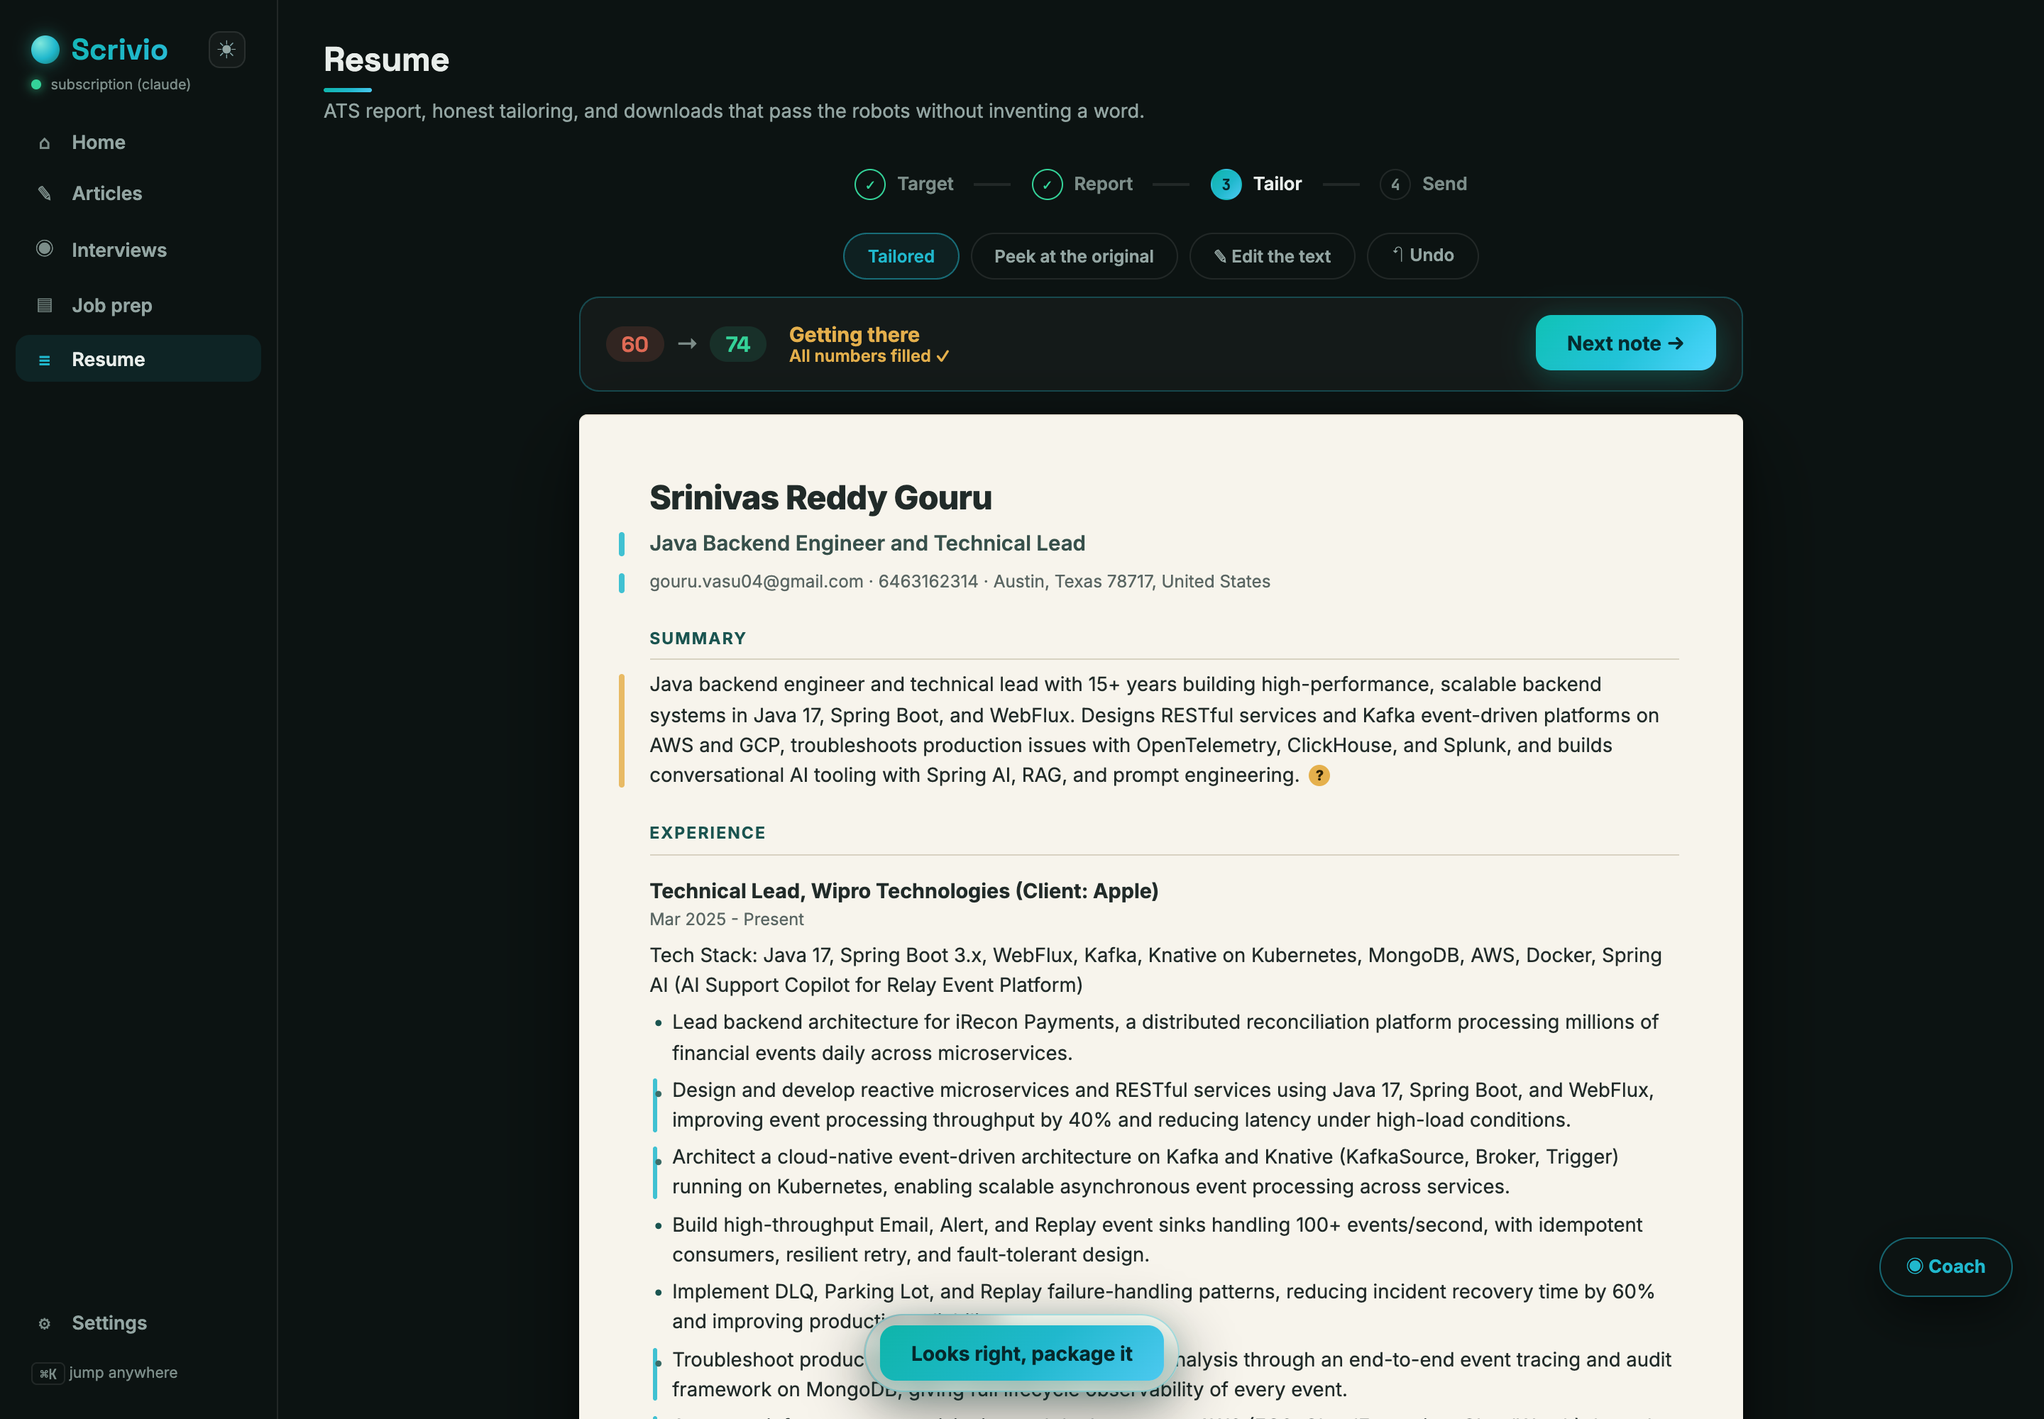
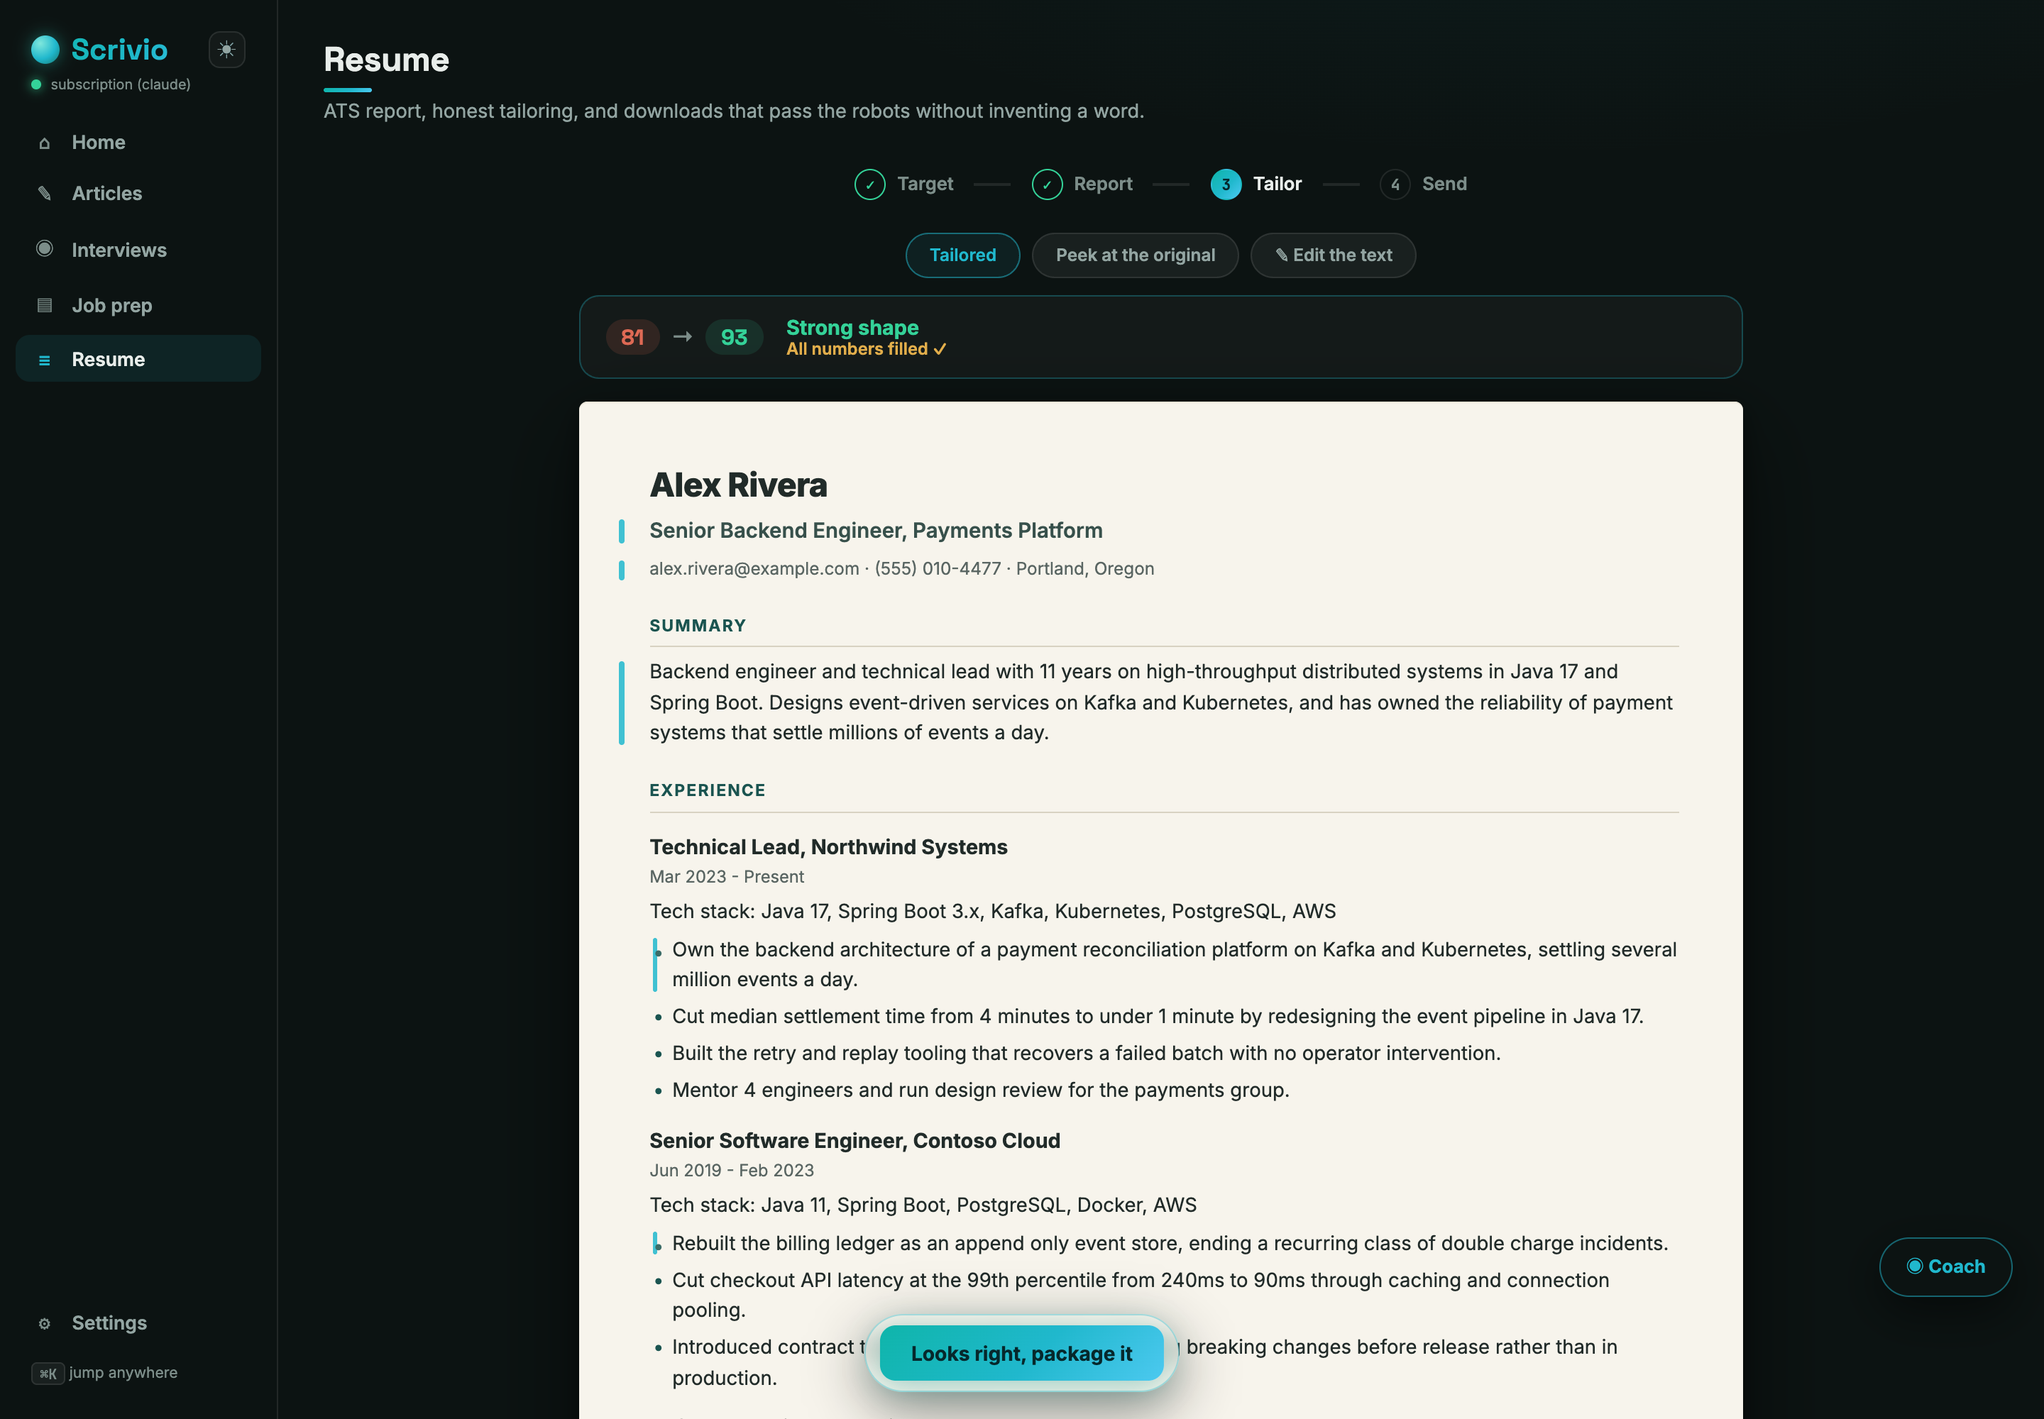
The README resume screenshot uses an invented resume, not mine
The screenshot showed a real contact line (email, phone, city) and a
real employment history at 2x resolution on a public README. Blurring it
would have left half the image a smudge, and the next recapture would
have put the data straight back.

So the shot is taken against a fictional resume instead. scripts/
demo_resume.py writes one to an output directory of its own, and the
capture script grew --base and --only so it can be pointed there without
the real store being loadable at all. Nothing personal is in frame
because nothing personal is on that server.

The content is invented end to end. The numbers are not: 81 to 93 comes
from run_ats_checks over the fictional resume, the same function the
product runs, so the README still shows a real result. The "original"
half is deliberately the resume most people actually have, duty phrased
with its numbers buried in prose, because the gap the studio closes has
to be a real gap to be worth showing.

Changed region(s): [[0.2812, 0.155, 0.8438, 0.992]]

diff --git a/scripts/demo_resume.py b/scripts/demo_resume.py
@@ -1,0 +1,238 @@
+"""Build a wholly fictional resume document for the README screenshot.
+
+A resume screenshot is the one place this project's docs can leak a real
+person: a contact line and an employment history, at full resolution, on
+a public README. So the screenshot is taken against an invented resume
+instead.
+
+The CONTENT is fiction end to end. The NUMBERS are not: the before and
+after scores come from run_ats_checks over this fictional resume, the
+same function the product runs, so the README shows a real result rather
+than a flattering one. The "original" is deliberately the resume most
+people actually have, duty phrased with its numbers buried, because the
+gap the studio closes has to be a real gap.
+
+    python scripts/demo_resume.py /tmp/demo-output
+    ARTICLE_OUTPUT_DIR=/tmp/demo-output python -m uvicorn api.server:app --port 8897
+    python scripts/capture_screenshots.py --base http://localhost:8897 --only resume-studio
+
+Writing to a directory of its own keeps it out of the real store, so no
+cleanup step can forget to run.
+"""
+from __future__ import annotations
+
+import sys
+from datetime import datetime
+from pathlib import Path
+
+from pipeline.schemas.models import (
+    ResumeBasics, ResumeChange, ResumeDoc, ResumeEducationItem, ResumeSkill,
+    ResumeProject, ResumeWorkItem, StructuredResume, TailoredResume,
+)
+from pipeline.workers.resume_studio_worker import render_markdown, run_ats_checks
+
+DEMO_ID = "20260101-000000-demo01"
+
+JD = """Senior Backend Engineer, Payments Platform
+
+We are looking for a backend engineer to own our event-driven payment
+reconciliation services. You will design and operate high-throughput
+services in Java 17 and Spring Boot, run Kafka pipelines on Kubernetes,
+and be responsible for the reliability of systems that move money.
+
+Requirements: Java 17, Spring Boot, Kafka, Kubernetes, PostgreSQL, AWS,
+observability tooling, distributed systems design, mentoring engineers.
+"""
+
+# The ORIGINAL is deliberately the resume most people actually have:
+# duty phrasing ("responsible for"), numbers buried inside prose rather
+# than leading a bullet, and the stack listed but never claimed in the
+# work itself. The gap the studio closes has to be a real gap.
+BASICS = ResumeBasics(
+    name="Alex Rivera",
+    label="Software Engineer",
+    email="alex.rivera@example.com",
+    phone="(555) 010-4477",
+    location="Portland, Oregon",
+    summary=(
+        "Experienced and results-driven software engineer with a strong "
+        "background in backend development and a proven track record of "
+        "delivering quality software. Responsible for a wide range of "
+        "services and passionate about clean code, collaborating closely "
+        "with cross functional teams to deliver business value on time."
+    ),
+)
+
+WORK = [
+    ResumeWorkItem(
+        name="Northwind Systems", position="Technical Lead",
+        startDate="Mar 2023", endDate="Present",
+        summary="Tech stack: Java 17, Spring Boot 3.x, Kafka, Kubernetes, PostgreSQL, AWS",
+        highlights=[
+            "Responsible for the backend architecture of the reconciliation "
+            "platform, which handles a few million payment events a day.",
+            "Worked on the event pipeline and helped bring the median settlement "
+            "time down from around 4 minutes to well under a minute.",
+            "Involved in building the retry and replay tooling used when a batch "
+            "fails, so that operators do not have to intervene manually.",
+            "Helped mentor junior engineers and participated in design reviews.",
+        ],
+    ),
+    ResumeWorkItem(
+        name="Contoso Cloud", position="Senior Software Engineer",
+        startDate="Jun 2019", endDate="Feb 2023",
+        summary="Tech stack: Java 11, Spring Boot, PostgreSQL, Docker, AWS",
+        highlights=[
+            "Rebuilt the billing ledger, which put an end to a recurring class of "
+            "double charge incidents that had been affecting customers.",
+            "Worked on checkout API performance, bringing the 99th percentile from "
+            "240ms down to 90ms through caching and connection pooling work.",
+            "Introduced contract testing across the nine services owned by the team.",
+        ],
+    ),
+    ResumeWorkItem(
+        name="Fabrikam Labs", position="Software Engineer",
+        startDate="Aug 2015", endDate="May 2019",
+        summary="Tech stack: Java 8, MySQL, Jenkins",
+        highlights=[
+            "Built and maintained the ingestion pipeline behind the analytics "
+            "product as it grew from 10 to 400 customer accounts.",
+            "Assisted with automating the release pipeline, moving the team from "
+            "fortnightly manual deploys to daily unattended ones.",
+            "Was responsible for the on-call rotation documentation and the "
+            "runbooks that the support team used out of hours.",
+            "Took part in the migration off the legacy scheduler, which had been "
+            "the cause of most of the overnight failures.",
+        ],
+    ),
+]
+
+PROJECTS = [
+    ResumeProject(
+        name="Ledger Replay", url="",
+        description="Open source tool for replaying event streams into a test ledger.",
+        highlights=[
+            "Rebuilds a full account balance from a Kafka topic so a fix can be "
+            "proven against production data before it ships.",
+            "Used by 3 teams internally and released under Apache 2.0.",
+        ],
+    ),
+]
+CERTIFICATES = ["AWS Certified Solutions Architect, Associate (2024)"]
+
+STRUCTURED = StructuredResume(
+    basics=BASICS, work=WORK,
+    education=[ResumeEducationItem(
+        institution="Oregon State University", area="Computer Science",
+        studyType="B.S.", startDate="2011", endDate="2015")],
+    skills=[ResumeSkill(name="Backend", keywords=[
+        "Java 17", "Spring Boot", "Kafka", "Kubernetes", "PostgreSQL",
+        "AWS", "Docker", "REST", "Distributed systems"])],
+    projects=PROJECTS, certificates=CERTIFICATES,
+)
+
+# The tailored version: the same facts, aimed at the posting. Nothing is
+# added that the original does not already support, which is the whole
+# claim the studio makes.
+TAILORED_BASICS = BASICS.model_copy(update={
+    "label": "Senior Backend Engineer, Payments Platform",
+    "summary": (
+        "Backend engineer and technical lead with 11 years on high-throughput "
+        "distributed systems in Java 17 and Spring Boot. Designs event-driven "
+        "services on Kafka and Kubernetes, and has owned the reliability of "
+        "payment systems that settle millions of events a day."
+    ),
+})
+# Every tailored bullet is the same fact with the duty phrasing removed
+# and the number moved to the front. No new claim appears anywhere.
+TAILORED_WORK = [w.model_copy(deep=True) for w in WORK]
+TAILORED_WORK[0].highlights = [
+    "Own the backend architecture of a payment reconciliation platform on "
+    "Kafka and Kubernetes, settling several million events a day.",
+    "Cut median settlement time from 4 minutes to under 1 minute by "
+    "redesigning the event pipeline in Java 17.",
+    "Built the retry and replay tooling that recovers a failed batch with no "
+    "operator intervention.",
+    "Mentor 4 engineers and run design review for the payments group.",
+]
+TAILORED_WORK[1].highlights = [
+    "Rebuilt the billing ledger as an append only event store, ending a "
+    "recurring class of double charge incidents.",
+    "Cut checkout API latency at the 99th percentile from 240ms to 90ms "
+    "through caching and connection pooling.",
+    "Introduced contract testing across 9 services, catching breaking changes "
+    "before release rather than in production.",
+]
+TAILORED_WORK[2].highlights = [
+    "Built the ingestion pipeline behind the analytics product, carrying it "
+    "from 10 to 400 customer accounts on PostgreSQL and AWS.",
+    "Automated the release pipeline, moving deploys from fortnightly and "
+    "manual to daily and unattended.",
+]
+
+TAILORED = StructuredResume(
+    basics=TAILORED_BASICS, work=TAILORED_WORK,
+    education=STRUCTURED.education,
+    skills=[ResumeSkill(name="Backend", keywords=[
+        "Java 17", "Spring Boot", "Kafka", "Kubernetes", "PostgreSQL", "AWS",
+        "Docker", "Distributed systems", "Observability"])],
+    projects=PROJECTS, certificates=CERTIFICATES,
+)
+
+CHANGES = [
+    ResumeChange(kind="rephrased", where="basics.label",
+                 what="Headline now names the posting's title, which the ATS matches on."),
+    ResumeChange(kind="rephrased", where="basics.summary",
+                 what="Summary leads with Java 17 and Kafka, the two skills the req repeats."),
+    ResumeChange(kind="added-keyword", where="work[0].highlights[0]",
+                 what="Named Kubernetes, which the original mentioned only in the tech stack line."),
+    ResumeChange(kind="reordered", where="skills",
+                 what="Moved observability up; the req calls it out by name."),
+    ResumeChange(kind="rephrased", where="work[1].highlights[0]",
+                 what="Named Spring Boot explicitly rather than leaving it implied."),
+]
+
+WARNINGS = [
+    "The req asks for Terraform. Nothing in this resume shows it, so it was "
+    "not added. Say so in the cover letter rather than on the resume.",
+    "The req asks for five years of team leadership. This resume shows lead "
+    "work from Mar 2023, which is under three. Left as written.",
+    "GraphQL appears in the req and nowhere in your history. Not claimed.",
+]
+
+
+def main() -> int:
+    if len(sys.argv) != 2:
+        print(__doc__)
+        print("usage: python scripts/demo_resume.py <output-dir>")
+        return 2
+    out = Path(sys.argv[1]).expanduser().resolve() / "resumes" / f"{DEMO_ID}.json"
+    report = run_ats_checks(render_markdown(STRUCTURED), JD, STRUCTURED)
+    tailored_report = run_ats_checks(render_markdown(TAILORED), JD, TAILORED)
+    now = datetime.now().isoformat(timespec="seconds")
+    doc = ResumeDoc(
+        resume_id=DEMO_ID,
+        original_text=render_markdown(STRUCTURED),
+        status="ready", tailor_status="idle",
+        structured=STRUCTURED, jd_text=JD,
+        jd_label="Senior Backend Engineer, Payments Platform",
+        report=report, tailored_report=tailored_report,
+        tailored=TailoredResume(
+            resume=TAILORED, changes=CHANGES, warnings=WARNINGS,
+            note=("Tailored for the payments platform req: the headline and summary "
+                  "lead with Java 17 and Kafka, and Kubernetes is named where the "
+                  "work already shows it."),
+        ),
+        created_at=now, updated_at=now,
+    )
+    out.parent.mkdir(parents=True, exist_ok=True)
+    out.write_text(doc.model_dump_json(indent=2))
+    print(f"wrote {out}")
+    print(f"score {report.score} -> {tailored_report.score} (computed, not set)")
+    print(f"keyword coverage {report.keyword_coverage.percent}% -> "
+          f"{tailored_report.keyword_coverage.percent}%")
+    return 0
+
+
+if __name__ == "__main__":
+    raise SystemExit(main())

diff --git a/scripts/capture_screenshots.py b/scripts/capture_screenshots.py
@@ -9,6 +9,15 @@ whole maintenance story.
     python scripts/capture_screenshots.py
 
 Add --light for the light-theme variants.
+
+The resume shot is the one that must never be taken against real work:
+it shows a contact line and an employment history at full resolution. Run
+that one against the fictional resume instead, on a server pointed at an
+output directory of its own so nothing personal is even loadable:
+
+    python scripts/demo_resume.py /tmp/demo-output
+    ARTICLE_OUTPUT_DIR=/tmp/demo-output python -m uvicorn api.server:app --port 8897
+    python scripts/capture_screenshots.py --base http://localhost:8897 --only resume-studio
 """
 from __future__ import annotations
 
@@ -33,14 +42,15 @@ def shot(page, name: str) -> None:
     print(f"  wrote docs/{name}.png")
 
 
-def capture(theme: str) -> None:
+def capture(theme: str, base: str = BASE, only: str | None = None) -> None:
     suffix = "" if theme == "dark" else "-light"
+    want = (lambda name: only is None or name == only)
     with sync_playwright() as p:
         # Drive the Chrome already on the machine: Playwright's own
         # bundled browser is a 150MB download for no visual difference.
         browser = p.chromium.launch(channel="chrome")
         page = browser.new_page(viewport=VIEWPORT, device_scale_factor=2)
-        page.goto(f"{BASE}/#/floor")
+        page.goto(f"{base}/#/floor")
         settle(page)
         # The toggle persists in localStorage, so set the theme once.
         current = page.evaluate("document.documentElement.dataset.theme")
@@ -49,27 +59,29 @@ def capture(theme: str) -> None:
             settle(page, 500)
 
         print(f"{theme} theme:")
-        shot(page, f"home{suffix}")
+        if want("home"):
+            shot(page, f"home{suffix}")
 
-        page.goto(f"{BASE}/#/newsroom")
-        settle(page)
-        shot(page, f"article-studio{suffix}")
+        if want("article-studio"):
+            page.goto(f"{base}/#/newsroom")
+            settle(page)
+            shot(page, f"article-studio{suffix}")
 
-        page.goto(f"{BASE}/#/interview")
-        settle(page)
-        shot(page, f"topic-practice{suffix}")
+        if want("topic-practice"):
+            page.goto(f"{base}/#/interview")
+            settle(page)
+            shot(page, f"topic-practice{suffix}")
 
-        page.goto(f"{BASE}/#/job")
-        settle(page)
-        shot(page, f"job-prep{suffix}")
+        if want("job-prep"):
+            page.goto(f"{base}/#/job")
+            settle(page)
+            shot(page, f"job-prep{suffix}")
 
         # A coding round only exists once one has been run, and creating
         # one costs a real interviewer call. Shoot the newest if present,
         # and say plainly when there is none rather than leaving a stale
         # image in docs/ pretending to be current.
-        page.goto(f"{BASE}/#/interview")
-        settle(page)
-        coding = page.evaluate("""async () => {
+        coding = None if not want("coding-round") else page.evaluate("""async () => {
             const all = await fetch('/interviews').then(r => r.json());
             return (all.find(s => s.mode === 'coding') || {}).session_id || null;
         }""")
@@ -79,12 +91,15 @@ def capture(theme: str) -> None:
                 " window.dispatchEvent(new Event('studio-open-session')); }", coding)
             settle(page, 2500)
             shot(page, f"coding-round{suffix}")
-        else:
+        elif want("coding-round"):
             print("  skipped coding-round.png: no coding session on file")
 
         # The resume desk's flagship view is the tailored paper with its
         # honesty notes, which lives behind two clicks rather than a URL.
-        page.goto(f"{BASE}/#/desk")
+        if not want("resume-studio"):
+            browser.close()
+            return
+        page.goto(f"{base}/#/desk")
         settle(page)
         opened = page.query_selector("//button[text()='Open']")
         if opened:
@@ -106,10 +121,12 @@ def capture(theme: str) -> None:
 def main() -> int:
     parser = argparse.ArgumentParser()
     parser.add_argument("--light", action="store_true", help="also capture light theme")
+    parser.add_argument("--base", default=BASE, help="server to drive (default %(default)s)")
+    parser.add_argument("--only", help="capture just this one, e.g. resume-studio")
     args = parser.parse_args()
-    capture("dark")
+    capture("dark", args.base, args.only)
     if args.light:
-        capture("light")
+        capture("light", args.base, args.only)
     return 0
 
 
